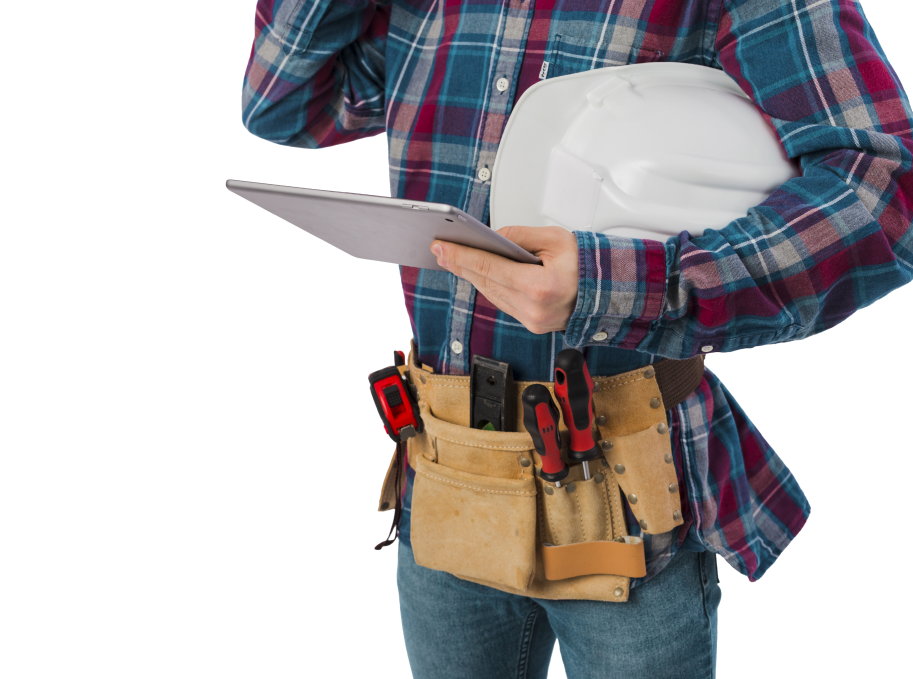
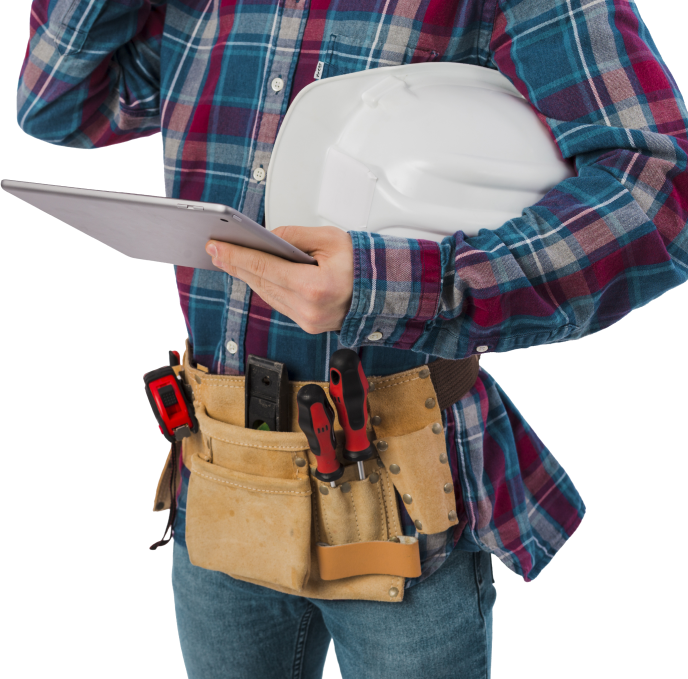
corrections in design

diff --git a/style.css b/style.css
@@ -122,10 +122,11 @@ h4 {
   padding: 0 370px;
   text-align: center;
   padding-bottom: 247px;
+
 }
 
 .offer {
-  padding: 62px 50px;
+  padding: 62px 10px;
   text-align: center;
 }
 
@@ -142,8 +143,8 @@ h4 {
   flex-wrap: nowrap;
   justify-content: space-between;
   align-items: center;
-  padding: 0 70px;
-  margin-bottom: 70px;
+  margin: 0 auto 70px auto;
+  max-width: 1090px;
 }
 
 .offer-item {
@@ -167,7 +168,8 @@ h4 {
   font-weight: bold;
   font-size: 27px;
   line-height: 130%;
-  padding: 0 150px;
+  max-width: 930px;
+  margin: 0 auto;
 
 }
 
@@ -189,8 +191,28 @@ h4 {
 }
 
 .our-services {
+  display: flex;
+  flex-direction: row;
+  flex-wrap: nowrap;
+  justify-content: space-between;
+  align-items: flex-start;
+  height: 100%;
+}
+
+
+.our-services-img {
+  width: 40%;
+
+  align-self: stretch;
+}
+
+.our-services-info {
   max-width: 900px;
   padding: 90px 0 70px 0;
+  width: 44%;
+
+  margin-left: 16%;
+
 }
 
 .our-services__header {
@@ -222,7 +244,7 @@ h4 {
   display: inline-block;
   width: 75%;
   font-weight: normal;
-  font-size: 18px;
+  font-size: 20px;
   line-height: 140%;
 }
 
@@ -235,7 +257,7 @@ h4 {
 
 
 .work-types-bg {
-  background-color: white;
+  background: #EBEDF3;
 }
 
 .work-types-block {
@@ -436,13 +458,13 @@ h4 {
 
 .advantage-message-inner {
   padding-left: 28px;
-  padding-right: 22px;
+  padding-right: 28px;
 }
 
 .advantage-message__img {
   display: block;
 
-  margin: 38px 0px 27px 0px;
+  margin: 38px auto 27px auto;
 }
 
 .advantage-massage__text {
@@ -470,7 +492,6 @@ h4 {
   line-height: 130%;
   color: #3A4454;
   margin-bottom: 36px;
-  text-transform: uppercase;
 }
 
 .questions__discr {

diff --git a/Index.html b/Index.html
@@ -57,9 +57,9 @@
       </div>
     </div>
     <div class="container-width100 our-services-bg">
-      <img src="Images/portrait-of-handyman.png" alt="" class="right-img">
-      <div class="container">
-        <div class="our-services">
+
+      <div class="our-services ">
+        <div class="our-services-info">
           <h2 class="our-services__header white">
             Абонентское обслуживание коммерческих помещений предусматривает:
           </h2>
@@ -98,7 +98,9 @@
             ситуаций.
           </p>
         </div>
+        <img src="Images/portrait-of-handyman.png" alt="" class="our-services-img">
       </div>
+
     </div>
 
 
